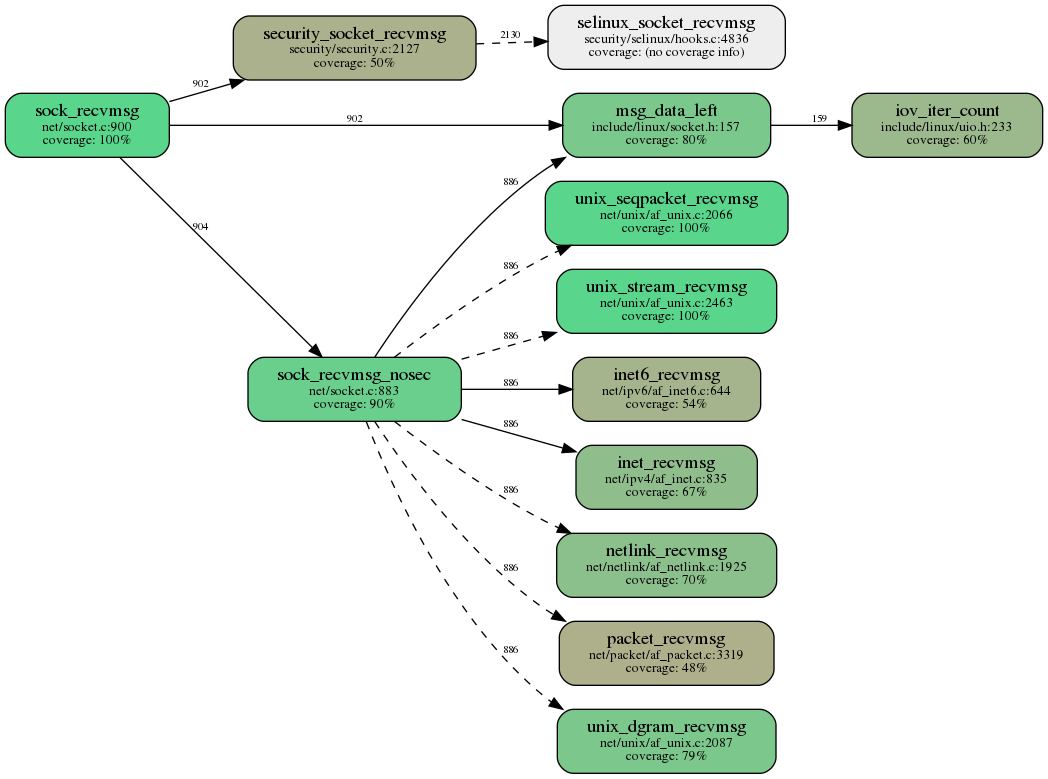
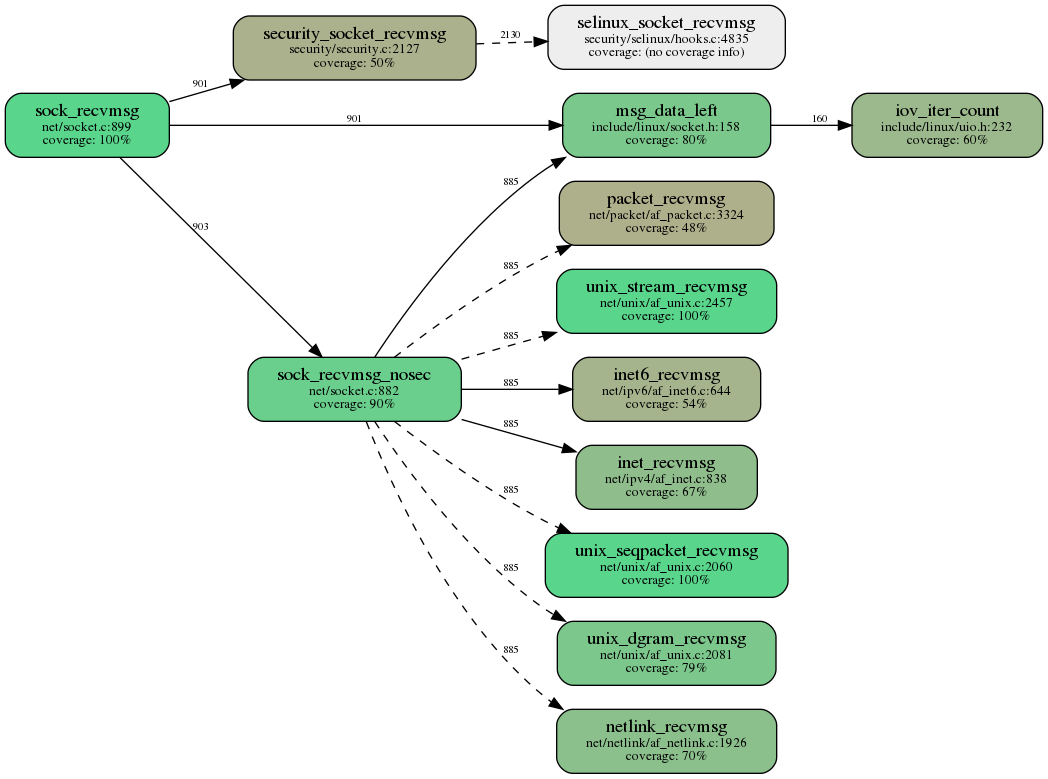
crix-callgraph: use stable kernel v5.9 as an example
Use stable kernel v5.9 as an example in the documentation instead of the
mainline kernel. The main reason is that the mainline kernel no longer
builds with clang-10 version that currently ships with Ubuntu.
We will eventually have to move to newer clang
version, but for now, this is a quick fix to make the commands in the
documentation work as expected.

diff --git a/safety-architecture/tools/callgraph-tool/doc/query_examples.md b/safety-architecture/tools/callgraph-tool/doc/query_examples.md
@@ -31,10 +31,10 @@ The below instructions also assume you have setup the `$KERNEL` and `$CG_DIR` va
 ## Building kernel bitcode files with compiler optimizations disabled
 Compiler optimizations and function inlining impact the callgraph output: this is by design and generally desired.
 
-In these instructions, however, we are going to use kernel bitcode files build with compiler optimizations disabled i.e. `-O0`. In addition, we are going to re-define the `__always_inline` macro to not force function inlines for any functions. The main reason for disabling both  the compiler optimizations and function inlining is to make the visualized function callgraphs more faithfully represent the C-source code, in order to make the call chains easier to follow from the source code.
+In these instructions, however, we are going to use kernel bitcode files build with compiler optimizations disabled i.e. `-O0`. In addition, we are going to re-define the `__always_inline` macro to not force function inlines for any functions. The main reason for disabling both the compiler optimizations and function inlining is to make the visualized function callgraphs more faithfully represent the C-source code, in order to make the call chains easier to follow from the source code.
 
 #### Patch compiler_attributes.h
-We need to edit the file include/linux/compiler_attributes.h macro `__always_inline` definition to disable forced function inlines as follows:
+We need to edit the file `include/linux/compiler_attributes.h` macro `__always_inline` definition to disable forced function inlines as follows:
 ```
 /* Around line 70: comment out
  * #define __always_inline                 inline __attribute__((__always_inline__))
@@ -114,7 +114,7 @@ Output:
 <img src=sock_recvmsg_d1.png>
 <br /><br />
 
-The output graph shows that function `sock_recvmsg` is defined in file net/socket.c on line 900. It calls three functions: `msg_data_left`, `security_socket_recvmsg`, and `sock_recvmsg_nosec`. The calls to these functions takes place from net/socket.c on lines 902, 902, and 904. The three called functions are defined in include/linux/socket.h:157, security/security.c:2127, and net/socket.c:883 respectively. Notice the node labels refer each function's definition, not declaration location.
+The output graph shows that function `sock_recvmsg` is defined in file net/socket.c on line 900. It calls three functions: `msg_data_left`, `security_socket_recvmsg`, and `sock_recvmsg_nosec`. The calls to these functions takes place from net/socket.c on lines 901, 901, and 903. The three called functions are defined in include/linux/socket.h:158, security/security.c:2127, and net/socket.c:882 respectively. Notice the node labels refer each function's definition, not declaration location.
 
 Increasing the `--depth` argument makes the query_callgraph.py walk the call chains deeper. For instance, with `--depth 2`, the output becomes:
 
@@ -145,7 +145,7 @@ Output:
 <img src=sock_recvmsg_d1_inverse.png>
 <br /><br />
 
-The output graph now shows that there are ten functions that can call `sock_recvmsg`: for instance, the function `io_recv`, which is defined in fs/io_uring.c on line 3906, calls `sock_recvmsg` on line 3947. The dashed line means that there is one function, namely `security_socket_sendmsg`, where `sock_recvmsg` is possibly called through a function pointer.
+The output graph now shows that there are ten functions that can call `sock_recvmsg`: for instance, the function `io_recv`, which is defined in fs/io_uring.c on line 4381, calls `sock_recvmsg` on line 4421.
 
 Again, increasing the `--depth` argument makes the query_callgraph.py walk the call chains deeper. For instance, with `--inverse` and `--depth 2`, the output becomes:
 
@@ -179,7 +179,7 @@ We use the `--until_function` to stop drawing when the call chain reaches a func
 <img src=sock_recvmsg_syscalls.png>
 <br /><br />
 
-The output graph shows that there are three syscalls whose call chain might reach `sock_recvmsg`: `__x64_sys_recvfrom`, `__x64_sys_recv`, and `__x64_sys_socketcall` defined at net/socket.c:2066, net/socket.c:2077, and net/socket.c:2852 respectively.
+The output graph shows that there are three syscalls whose call chain might reach `sock_recvmsg`: `__x64_sys_recvfrom`, `__x64_sys_recv`, and `__x64_sys_socketcall` defined at net/socket.c:2063, net/socket.c:2074, and net/socket.c:2853 respectively.
 
 #### Example: visualizing coverage data 
 query_callgraph.py allows adding function coverage information to the graph visualizations. The expected coverage format is a csv file with the following headers: filename, function, and percent:

diff --git a/safety-architecture/tools/callgraph-tool/README.md b/safety-architecture/tools/callgraph-tool/README.md
@@ -28,7 +28,7 @@ Table of Contents
 
 
 ## Getting started
-These setup instructions have been tested on Ubuntu 18.04.
+These setup instructions have been tested on Ubuntu 18.04 and 20.04.
 
 Checkout callgraph:
 ```
@@ -50,13 +50,16 @@ cd $CG_DIR
 pip3 install -r requirements.txt
 ```
 
-You also need the target kernel source tree. For the sake of example, we use the mainline tree:
+You also need the target kernel source tree. For the sake of example, we use the stable tree:
 ```
 cd ~   # wherever you prefer to clone the kernel tree to
-git clone https://git.kernel.org/pub/scm/linux/kernel/git/torvalds/linux.git
+git clone https://git.kernel.org/pub/scm/linux/kernel/git/stable/linux-stable.git
+cd linux-stable
+git checkout v5.9  # we'll use v5.9 as an example
 
 # We assume $KERNEL contains the path to the target kernel tree root
-KERNEL=$(pwd)/linux
+KERNEL=$(pwd)
+
 ```
 
 ## Generating callgraph database
